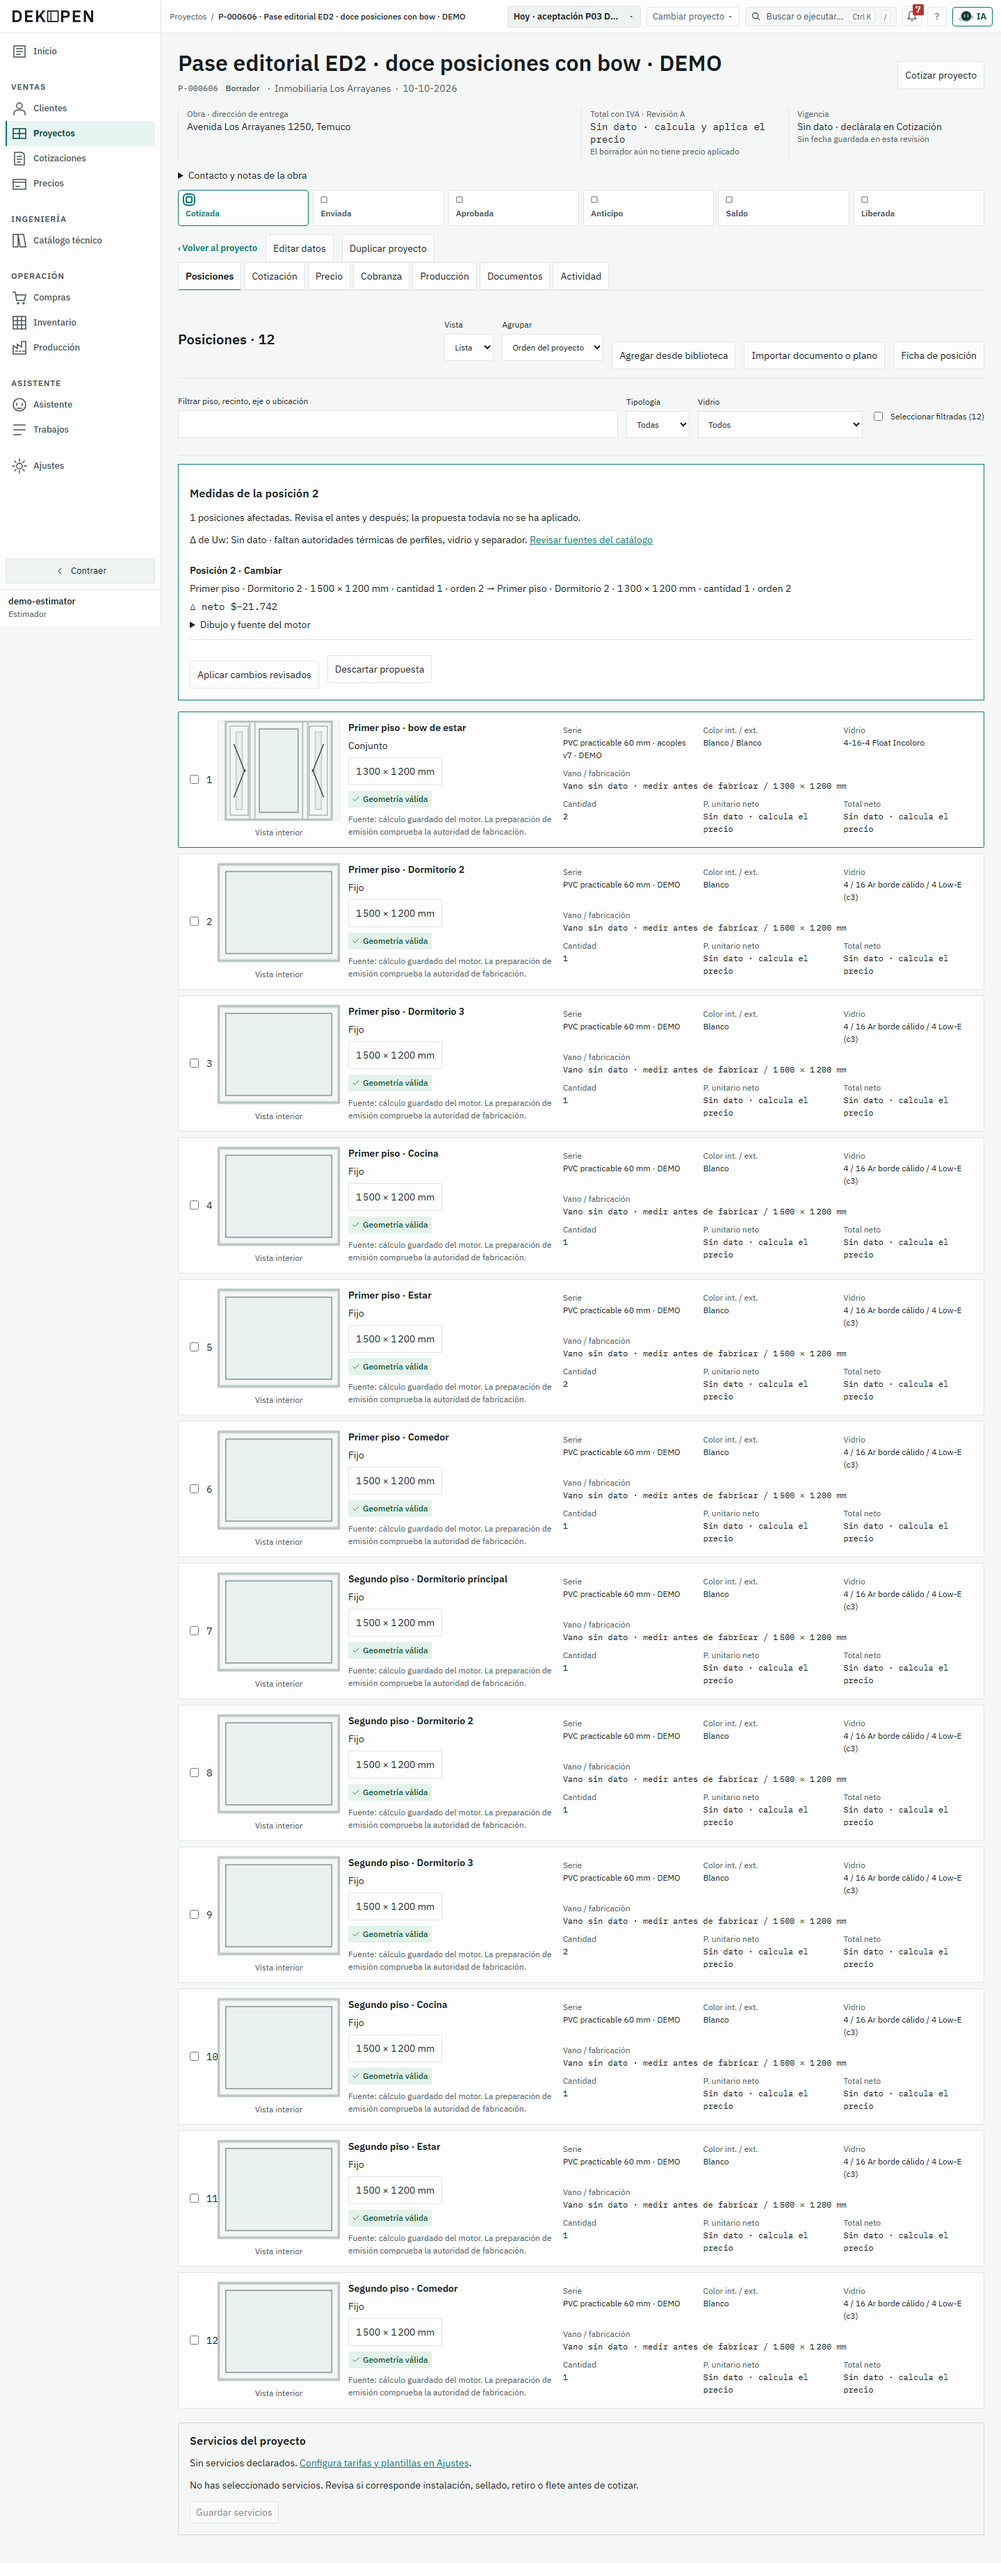
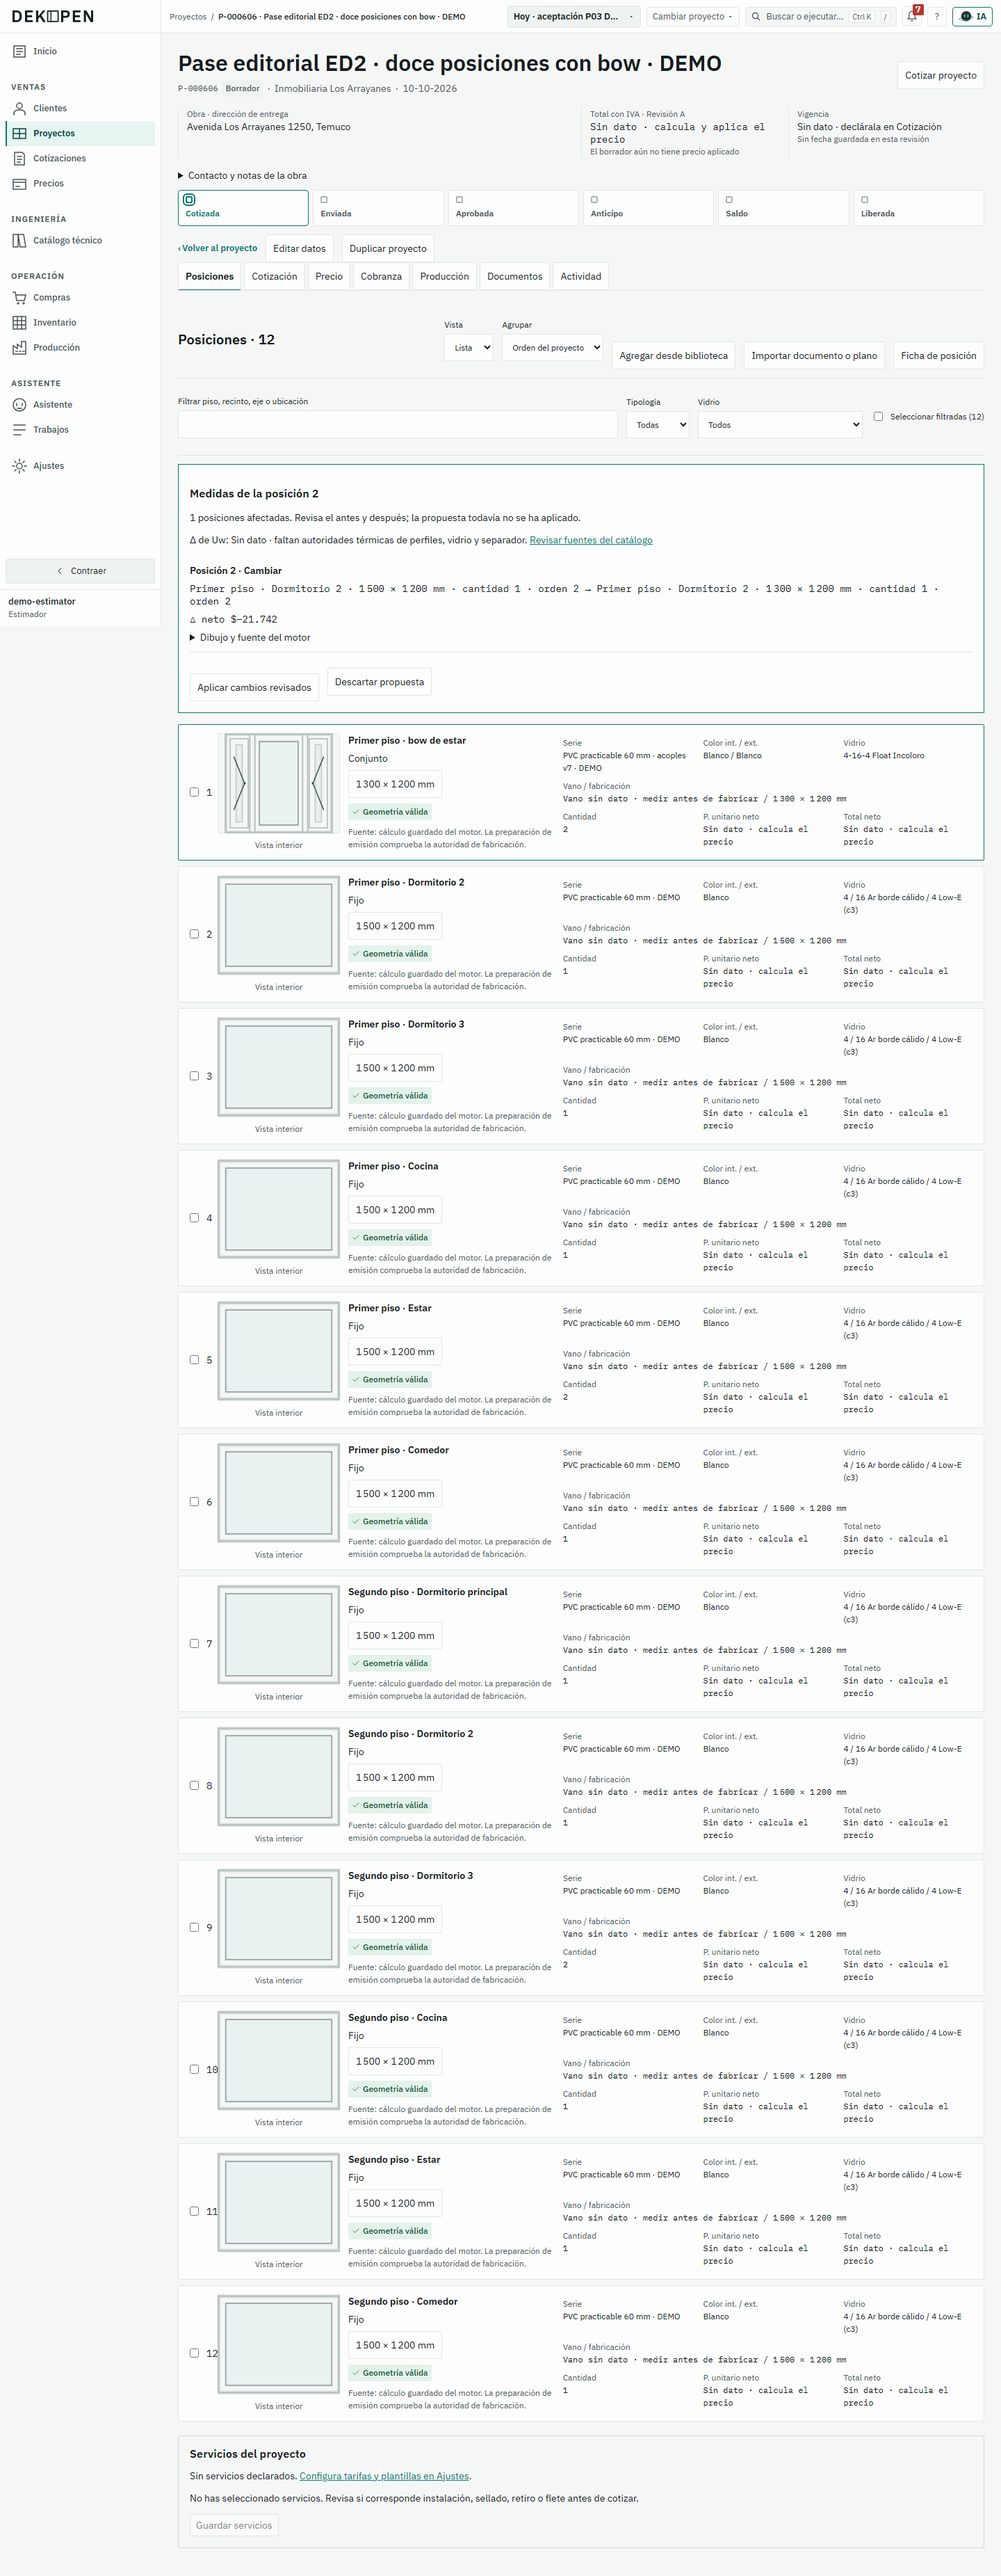
P21: verificar recorridos E2E de la colección y el diff

diff --git a/frontend/tests/e2e/projects.spec.ts b/frontend/tests/e2e/projects.spec.ts
@@ -60,11 +60,16 @@ async function screenshot(page: Page, info: TestInfo, name: string): Promise<voi
   await info.attach(name, { path, contentType: "image/png" });
 }
 
-/** The desk grid is select-then-act: click the vano's row so the side pane
- * offers its actions, then return the action link inside it. */
+/** Secondary position details live in the drawer; the main collection keeps
+ * its selection and the editor opens the exact physical position. */
 async function card(page: Page, location: string, action: string) {
-  await page.locator(".position-grid [role='option']").filter({ hasText: location }).click();
-  return page.locator(".project-desk__side").getByRole("link", { name: action, exact: true });
+  await page
+    .getByRole("listbox", { name: "Posiciones" })
+    .getByRole("option")
+    .filter({ hasText: location })
+    .click();
+  await page.getByRole("button", { name: "Ficha de posición", exact: true }).click();
+  return page.getByRole("dialog").getByRole("link", { name: action, exact: true });
 }
 
 test("SHOT-10 real project core path and visual evidence", async ({ page, manual }, info) => {
@@ -123,10 +128,10 @@ test("SHOT-10 real project core path and visual evidence", async ({ page, manual
   const projectApi = `/api/v1/projects/${project.id}/`;
   await expect(page).toHaveURL(new RegExp(`${projectPath}$`));
   await expect(page.getByRole("heading", { level: 1 })).toContainText(projectName);
-  await expect(page.getByRole("link", { name: "Añadir vano" })).toBeVisible();
+  await expect(page.getByRole("link", { name: "Agregar vanos", exact: true })).toBeVisible();
   await screenshot(page, info, "01-project-created");
 
-  await page.getByRole("link", { name: "Añadir vano", exact: true }).click();
+  await page.getByRole("link", { name: "Agregar vanos", exact: true }).click();
   await page.getByLabel("Ubicación del vano", { exact: true }).fill("Cocina original");
   await page.getByLabel("Cantidad", { exact: true }).fill("2");
 
@@ -339,17 +344,49 @@ test("SHOT-10 real project core path and visual evidence", async ({ page, manual
 
   await back();
   await expect(page).toHaveURL(new RegExp(`${projectPath}$`));
-  await responseTo(page, "GET", positionApi, 200, () =>
-    card(page, "Cocina original", "Duplicar vano").then((link) => link.click()),
+  await page.getByLabel(`Seleccionar posición ${saved.position_index}`, { exact: true }).check();
+  const proposal = await responseTo<{ diff: { kind: string }[] }>(
+    page,
+    "POST",
+    `${projectApi}operations/preview/`,
+    200,
+    () => page.getByRole("button", { name: "Duplicar lote", exact: true }).click(),
   );
-  await expect(page.getByText("Cambios sin guardar", { exact: true })).toBeVisible();
+  expect(proposal.diff).toHaveLength(1);
+  expect(proposal.diff[0]!.kind).toBe("add");
+  expect(
+    await manual.readRows("project_positions", `project_id=eq.${project.id}&select=id`),
+  ).toHaveLength(1);
+  const applied = await responseTo<{ project: ProjectResponse }>(
+    page,
+    "POST",
+    `${projectApi}operations/apply/`,
+    200,
+    () => page.getByRole("button", { name: "Aplicar cambios revisados", exact: true }).click(),
+  );
+  const copied = applied.project.positions!.find((item) => item.id !== saved.id)!;
+  expect(copied.id).not.toBe(saved.id);
+  expect(copied.design).toEqual(saved.design);
+  expect(copied.bom).toEqual(saved.bom);
+  expect(copied.measurements).toBeNull();
+  const copyRow = page
+    .getByRole("listbox", { name: "Posiciones" })
+    .getByRole("option")
+    .filter({
+      has: page.getByLabel(`Seleccionar posición ${copied.position_index}`, { exact: true }),
+    });
+  await responseTo(page, "GET", `/api/v1/positions/${copied.id}/`, 200, () =>
+    copyRow.press("Enter"),
+  );
+  await expect(page.getByText("Guardado", { exact: true })).toBeVisible();
   await page.getByLabel("Ubicación del vano", { exact: true }).fill("Cocina duplicada");
+  await expect(page.getByText("Cambios sin guardar", { exact: true })).toBeVisible();
 
   const duplicate = await responseTo<PositionResponse>(
     page,
-    "POST",
-    `${projectApi}positions/`,
-    201,
+    "PUT",
+    `/api/v1/positions/${copied.id}/`,
+    200,
     save,
   );
   expect(duplicate.id).not.toBe(saved.id);
@@ -398,7 +435,9 @@ test("SHOT-10 real project core path and visual evidence", async ({ page, manual
     () => page.reload(),
   );
   expect(reopenedClone.positions).toEqual(clone.positions);
-  await expect(page.locator(".position-grid [role='option']")).toHaveCount(2);
+  await expect(page.getByRole("listbox", { name: "Posiciones" }).getByRole("option")).toHaveCount(
+    2,
+  );
   await page.getByRole("heading", { level: 1 }).scrollIntoViewIfNeeded();
   await screenshot(page, info, "04-reopened-draft-clone");
 

diff --git a/frontend/tests/e2e/auth.spec.ts b/frontend/tests/e2e/auth.spec.ts
@@ -509,7 +509,7 @@ test("SHOT-10 OWNER prices and emits immutable quotation revisions", async ({ pa
   const createdResponse = await creation;
   expect(createdResponse.status()).toBe(201);
   const draft = (await createdResponse.json()) as { id: string };
-  await page.getByRole("link", { name: "Añadir vano", exact: true }).click();
+  await page.getByRole("link", { name: "Agregar vanos", exact: true }).click();
   await page.getByLabel("Ubicación del vano", { exact: true }).fill("Fijo comercial");
   await page.getByLabel("Cantidad", { exact: true }).fill("2");
   await page.locator(".editor-system-chip").click();
@@ -566,7 +566,7 @@ test("SHOT-10 OWNER prices and emits immutable quotation revisions", async ({ pa
   ).toContainText(formatMoney(quote.project_gross, "CLP"));
   await page.goto(`/projects/${draft.id}`);
   const projectGross = page
-    .locator(".project-facts__list dd")
+    .locator(".project-head__facts dd.project-number")
     .filter({ hasText: formatMoney(quote.project_gross, "CLP") });
   await expect(projectGross).toHaveCount(1);
   await expect(projectGross).toBeVisible();
@@ -644,14 +644,13 @@ test("SHOT-10 OWNER prices and emits immutable quotation revisions", async ({ pa
   expect((await successor).status()).toBe(201);
   await expect(page.getByText("Borrador", { exact: true })).toBeVisible();
   await expect(page.getByText("Revisión B", { exact: true })).toBeVisible();
-  await page.getByRole("button", { name: "Volver a posiciones", exact: true }).click();
-  // The desk grid is select-then-act: pick the vano row so the side pane
-  // offers Abrir diseño.
+  await page.getByRole("tab", { name: "Posiciones", exact: true }).click();
+  // The collection opens the exact selected position with Enter.
   await page
-    .locator(".position-grid [role='option']")
+    .getByRole("listbox", { name: "Posiciones" })
+    .getByRole("option")
     .filter({ hasText: "Fijo comercial" })
-    .click();
-  await page.getByRole("link", { name: "Abrir diseño", exact: true }).click();
+    .press("Enter");
   await page.getByLabel("Cantidad", { exact: true }).fill("3");
   await page.getByRole("button", { name: "Guardar", exact: true }).click();
   await expect(page.getByText("Guardado", { exact: true })).toBeVisible();
@@ -720,7 +719,7 @@ test("SHOT-10 OWNER prices and emits immutable quotation revisions", async ({ pa
   );
   await page.getByRole("button", { name: "Guardar", exact: true }).click();
   const compositeProject = (await (await compositeCreation).json()) as { id: string };
-  await page.getByRole("link", { name: "Añadir vano", exact: true }).click();
+  await page.getByRole("link", { name: "Agregar vanos", exact: true }).click();
   await page.getByLabel("Ubicación del vano", { exact: true }).fill("Fachada compuesta");
   await page.locator(".editor-system-chip").click();
   await page.getByRole("combobox", { name: "Serie de perfiles", exact: true }).selectOption({
@@ -778,10 +777,10 @@ test("SHOT-10 OWNER prices and emits immutable quotation revisions", async ({ pa
   await page.reload();
   await page.getByRole("link", { name: "Composite browser gate", exact: true }).click();
   await page
-    .locator(".position-grid [role='option']")
+    .getByRole("listbox", { name: "Posiciones" })
+    .getByRole("option")
     .filter({ hasText: "Fachada compuesta" })
-    .click();
-  await page.getByRole("link", { name: "Abrir diseño", exact: true }).click();
+    .press("Enter");
   // Scoped to the main canvas sheet — inspector previews and alternative
   // thumbnails render their own members on the same page. The bay division
   // draws a real mullion member between the two glass bays.

diff --git a/frontend/src/features/projects/ProjectOpsReview.tsx b/frontend/src/features/projects/ProjectOpsReview.tsx
@@ -213,7 +213,7 @@ export function ProjectOpsReview({
                         ? "Eliminar"
                         : "Cambiar"}
                   </strong>
-                  <span>
+                  <span className="project-number">
                     {description(change.before)} → {description(change.after)}
                   </span>
                   <span className="project-number">

diff --git a/docs/wiki/state/current-reality.md b/docs/wiki/state/current-reality.md
@@ -3,8 +3,10 @@ type: state
 status: active
 updated: 2026-10-10
 volatility: high
-verified_ref: fa3731843dbfbd75d00024e95f4986a3616a8747
+verified_ref: 38bac104c8774dc0225fccec74e6089872701cb1
 sources:
+  - P21 implementación 38bac104c8774dc0225fccec74e6089872701cb1, navegador y PostgreSQL focal, 2026-10-10
+  - docs/redesign/P21-ACEPTACION.md
   - ED2 PR https://github.com/KaraAliOsman/framedex/pull/145, CI 4/4 sobre dd3fe1ffce2c14ba1125442d8a137021d1ba32f2, corrida https://github.com/KaraAliOsman/framedex/actions/runs/38091279743, squash fa3731843dbfbd75d00024e95f4986a3616a8747, 2026-10-10.
   - ED2 metadatos b18b6506e55152702c37fdc0c7c6f3df21ff2d0f, matriz final y gates de presentación, 2026-10-10
   - ED2 implementación 0ab8b7204ac250c0bd8d118fdab041c22b5892b3, navegador, 2026-10-10
@@ -72,6 +74,29 @@ sources:
 ---
 
 # Current reality
+
+## P21 · centro de trabajo del proyecto (10-10-2026)
+
+Verificado sobre `38bac104c8774dc0225fccec74e6089872701cb1` en el stack
+propio `framedex-cola`. Encabezado con cliente, dirección, próxima acción,
+vigencia y precio aplicado; siete pestañas visibles y elevaciones reales
+en lista/grilla. Las nuevas operaciones de biblioteca, duplicar, eliminar,
+ordenar y metadatos comparten preview/apply/undo con concurrencia y reintento.
+El orden no cambia el número físico; la copia no hereda mediciones ni precio.
+Los metadatos de revisión cerrada permanecen protegidos en Postgres/RLS.
+
+El recorrido real agrega tres posiciones, agrupa por piso, duplica a seis,
+cambia color con diff/deshacer y aplica $1.925.201 con IVA desde el motor.
+Las cien posiciones montan cinco filas; cinco contextos miden hasta selección
+visible en 1.781,68–1.975,32 ms. Las 32 vistas oficiales, 31 interacciones y
+cinco estados pasan; PNG comprobados sin pérdida. R1–R20 PASA en proyecto.
+Las pruebas focales pasan 33 PostgreSQL y 36 frontend. Los gates completos
+pasan lint/tipos, 886 motor (+2 xfail), goldens byte, 1.476 backend,
+988 frontend y build. Database Gate y CI se registran al cerrar P21;
+aún no se acredita integración.
+
+Uw conserva Sin dato y el catálogo conserva DEMO. Véanse
+`docs/wiki/product/project-workspace.md` y `docs/redesign/P21-ACEPTACION.md`.
 
 ## ED2 · lectura conjunta de la ola 2 (10-10-2026)
 

diff --git a/docs/redesign/P21-ACEPTACION.md b/docs/redesign/P21-ACEPTACION.md
@@ -111,18 +111,23 @@ muestra 1 500 × 1 200 → 1 300 × 1 200 mm y Δ neto de la simulación;
 se descarta sin persistir. La compresión verifica píxeles, modo y tamaño
 exactos de los PNG, no solo su legibilidad.
 
-## Verificación pendiente de cierre
+## Verificación local
 
 PostgreSQL focal pasa **33 pruebas** de proyecto/operaciones, incluyendo
 tenant, rol, catálogo, medición, orden, sellado y compatibilidad de firmas.
-El primer gate completo pasa lint, tipos, 886 motor (+2 xfail), goldens byte
-a byte y 1.476 backend; frontend detecta seis traducciones faltantes de las
-nuevas operaciones. Esa corrida no acredita un gate completo. Se corrigen
-las traducciones y se repiten los gates finales sin alterar los checks.
+La repetición final de `make lint typecheck test build` termina con código 0
+sobre la implementación `38bac104c8774dc0225fccec74e6089872701cb1`:
+886 pruebas del motor (+2 xfail preexistentes), goldens byte a byte,
+1.476 backend y **988 frontend**; tipos, fuente/API reproducibles y build
+pasan. Las traducciones de las nuevas operaciones pasan su contrato común.
+Ningún check ni detector se debilita. El build conserva la advertencia de
+tamaño del bloque 3D compartido; el centro de proyecto carga sus paneles
+secundarios bajo demanda.
 
-La rúbrica, los cinco estados, Database Gate y CI se completan y registran
-antes del merge. Los PNG anteriores y posteriores conservan la evidencia
-de los recorridos, sin tokens de autenticación ni valores de entorno.
+Database Gate y CI se registran antes del merge. Los 79 PNG anteriores y
+posteriores conservan los recorridos sin tokens de autenticación ni valores
+de entorno. Los procesos propios de aplicación quedan detenidos y el fixture
+se conserva; la puerta SQL usa un proyecto aislado diferente.
 
 ## Límites
 

diff --git a/docs/wiki/log.md b/docs/wiki/log.md
@@ -1249,3 +1249,24 @@ Véase `docs/redesign/ED2-ACEPTACION.md`.
 
 ED2 PR https://github.com/KaraAliOsman/framedex/pull/145, CI 4/4 sobre dd3fe1ffce2c14ba1125442d8a137021d1ba32f2, corrida https://github.com/KaraAliOsman/framedex/actions/runs/38091279743, squash fa3731843dbfbd75d00024e95f4986a3616a8747, 2026-10-10.
 R1–R20 por superficie PASA. Las revisiones externas se omitieron por configuración/cuota y no se atribuyen como revisión completa. Servicios propios detenidos; fixture persistente conservado.
+
+### 2026-10-10 · P21, centro de trabajo del proyecto
+
+Implementación `38bac104c8774dc0225fccec74e6089872701cb1`: siete flujos
+visibles, elevaciones en lista/grilla, medidas en fila y operaciones de lote
+con preview/apply/undo. Metadatos opcionales sin backfill de históricos;
+precio desde resultado comercial aplicado, mediciones con consulta por lote
+y orden visual independiente de dirección física. La caché de cálculo
+vive dentro de cada operación y conserva la reserva de catálogo por destino.
+
+El recorrido de biblioteca/grupo/duplicar/color/deshacer/precio persiste
+seis posiciones y $1.925.201 con IVA. Treinta y una interacciones, 32 vistas
+oficiales y cinco estados pasan sin hallazgos ni desbordes; 79 PNG se
+comprueban y comprimen sin pérdida. Cinco contextos de cien posiciones
+miden 1.781,68–1.975,32 ms hasta selección visible, con cinco filas montadas.
+Las focales pasan 33 PostgreSQL y 36 frontend. Los gates completos pasan
+lint/tipos, 886 motor (+2 xfail), goldens byte, 1.476 backend, 988 frontend
+y build. Database Gate y CI pendientes de cierre; no se afirma integración.
+R1–R20 de proyecto PASA.
+El catálogo DEMO y Uw Sin dato conservan sus límites. Véase
+`docs/redesign/P21-ACEPTACION.md` y `product/project-workspace.md`.
